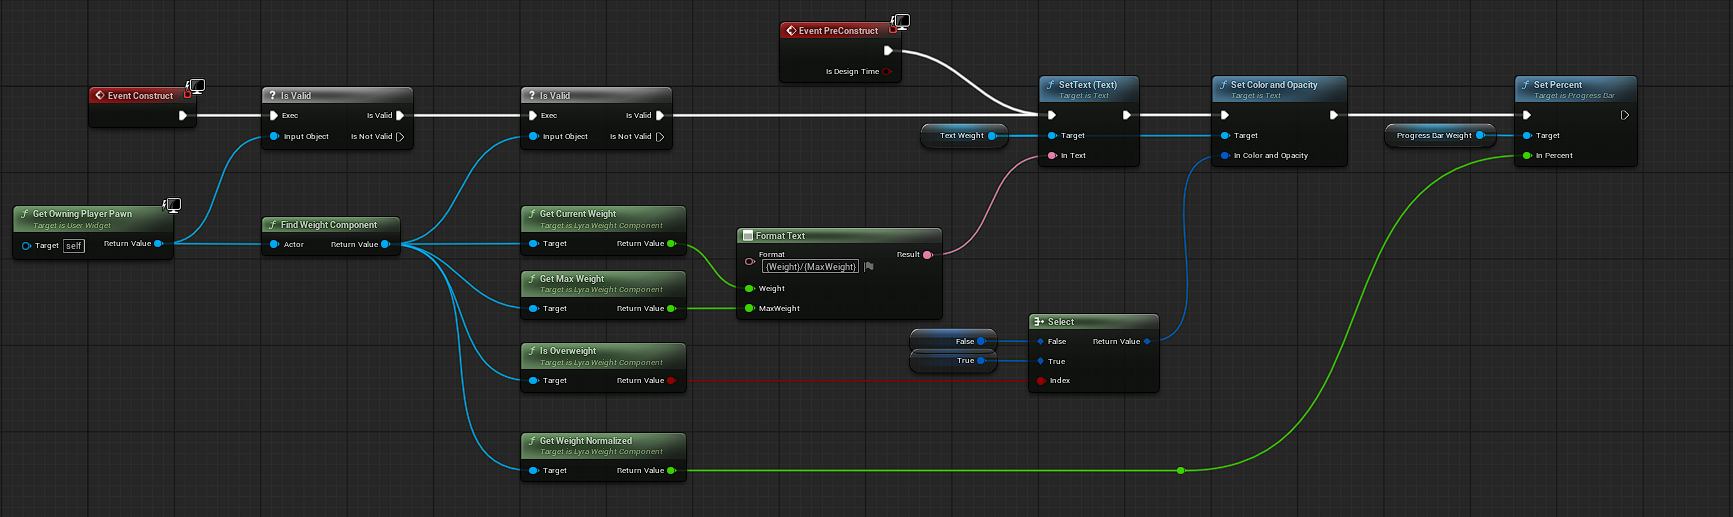
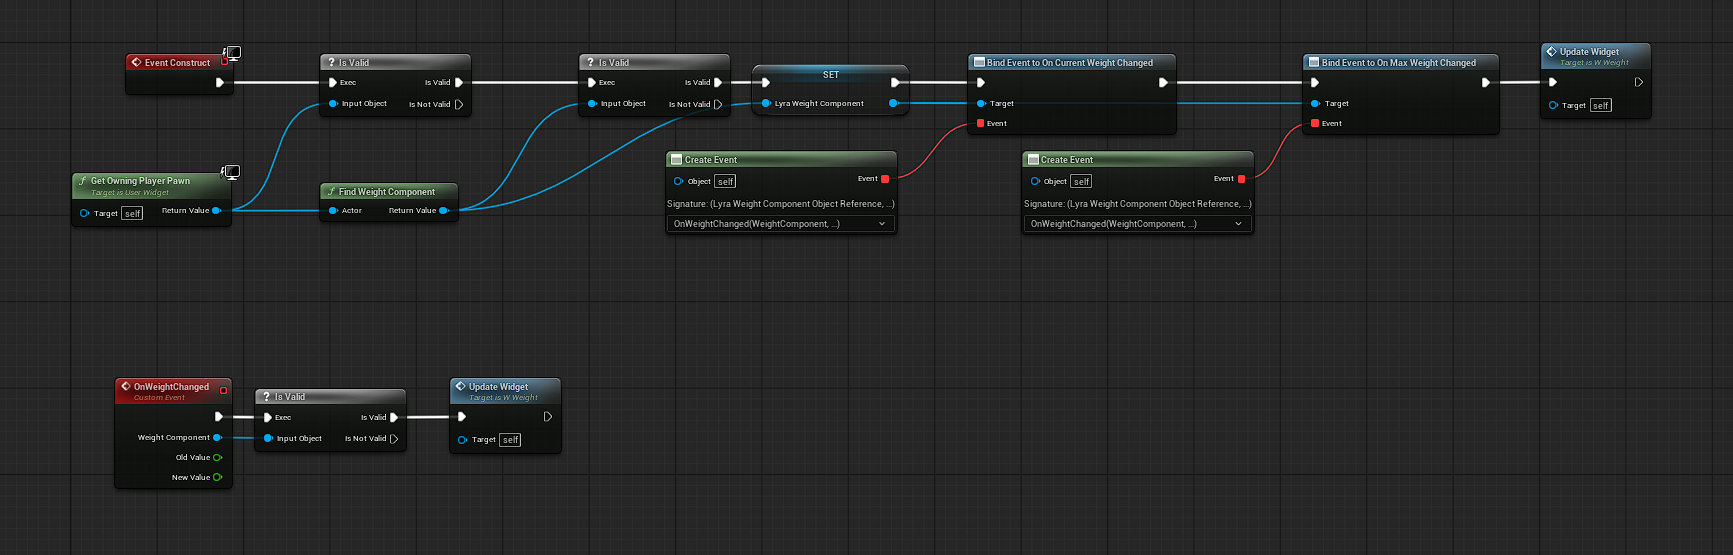
Reading the weight: event-driven widget

Changed region(s): [[0.0, 0.0309, 0.966, 0.9284]]

diff --git a/README.tr.md b/README.tr.md
@@ -142,11 +142,15 @@ Ağırlık sunucuda hesaplanır: component toplamı authority'de yazar ve `Weigh
 
 ## Ağırlığı okuma
 
-`ULyraWeightComponent` şunları sunar: `GetCurrentWeight()`, `GetMaxWeight()`, `GetWeightNormalized()` (0–1, ilerleme çubuğu için) ve `IsOverweight()`. Ayrıca UI bağlama için `OnCurrentWeightChanged` ve `OnMaxWeightChanged` delegate'lerini broadcast eder.
+`ULyraWeightComponent` şunları sunar: `GetCurrentWeight()`, `GetMaxWeight()`, `GetWeightNormalized()` (0–1, ilerleme çubuğu için) ve `IsOverweight()`. Ayrıca `OnCurrentWeightChanged` ve `OnMaxWeightChanged` delegate'lerini broadcast eder; böylece UI her kare yoklama yapmak yerine ağırlık değiştiği anda güncellenebilir.
 
-Basit bir HUD widget'ı bunları doğrudan okuyabilir — burada `GetWeightNormalized()` ilerleme çubuğunu besler, `GetCurrentWeight()` ve `GetMaxWeight()` etiketi biçimlendirir, `IsOverweight()` ise çubuğun rengini seçer:
+Bir HUD widget'ı construct anında bu delegate'lere bağlanır ve onlar tetiklendiğinde kendini yeniler. Construct'ta yenilemeyi bir kez de doğrudan çağırır ki widget, bir sonraki değişim gelmeden önce güncel değeri göstersin:
 
-![Blueprint'te ağırlık widget'ı](https://raw.githubusercontent.com/omergfx28/LyraWeightSystem/main/Images/Screenshot_9.png)
+![Widget ağırlık delegate'lerine bağlanır](https://raw.githubusercontent.com/omergfx28/LyraWeightSystem/main/Images/Screenshot_9.png)
+
+Yenileme, component'i doğrudan okur — `GetWeightNormalized()` ilerleme çubuğunu besler, `GetCurrentWeight()` ve `GetMaxWeight()` etiketi biçimlendirir, `IsOverweight()` ise çubuğun rengini seçer:
+
+![Widget yenilemesi component'i okur](https://raw.githubusercontent.com/omergfx28/LyraWeightSystem/main/Images/Screenshot_10.png)
 
 ## Planlanan
 

diff --git a/README.md b/README.md
@@ -142,11 +142,15 @@ Weight is resolved on the server: the component writes the total on the authorit
 
 ## Reading the weight
 
-`ULyraWeightComponent` exposes `GetCurrentWeight()`, `GetMaxWeight()`, `GetWeightNormalized()` (0–1, for a progress bar), and `IsOverweight()`. It also broadcasts `OnCurrentWeightChanged` and `OnMaxWeightChanged` for UI binding.
+`ULyraWeightComponent` exposes `GetCurrentWeight()`, `GetMaxWeight()`, `GetWeightNormalized()` (0–1, for a progress bar), and `IsOverweight()`. It also broadcasts `OnCurrentWeightChanged` and `OnMaxWeightChanged`, so UI can update the moment weight changes instead of polling every frame.
 
-A simple HUD widget can read these directly — here `GetWeightNormalized()` drives a progress bar, `GetCurrentWeight()` and `GetMaxWeight()` format the label, and `IsOverweight()` selects the bar colour:
+A HUD widget binds to those delegates on construct and refreshes itself whenever they fire. On construct it also calls the refresh once, so the widget shows the current value before the next change arrives:
 
-![Weight widget in Blueprint](https://raw.githubusercontent.com/omergfx28/LyraWeightSystem/main/Images/Screenshot_9.png)
+![Widget binds to the weight delegates](https://raw.githubusercontent.com/omergfx28/LyraWeightSystem/main/Images/Screenshot_9.png)
+
+The refresh reads the component directly — `GetWeightNormalized()` drives the progress bar, `GetCurrentWeight()` and `GetMaxWeight()` format the label, and `IsOverweight()` selects the bar colour:
+
+![Widget refresh reads the component](https://raw.githubusercontent.com/omergfx28/LyraWeightSystem/main/Images/Screenshot_10.png)
 
 ## Planned
 
